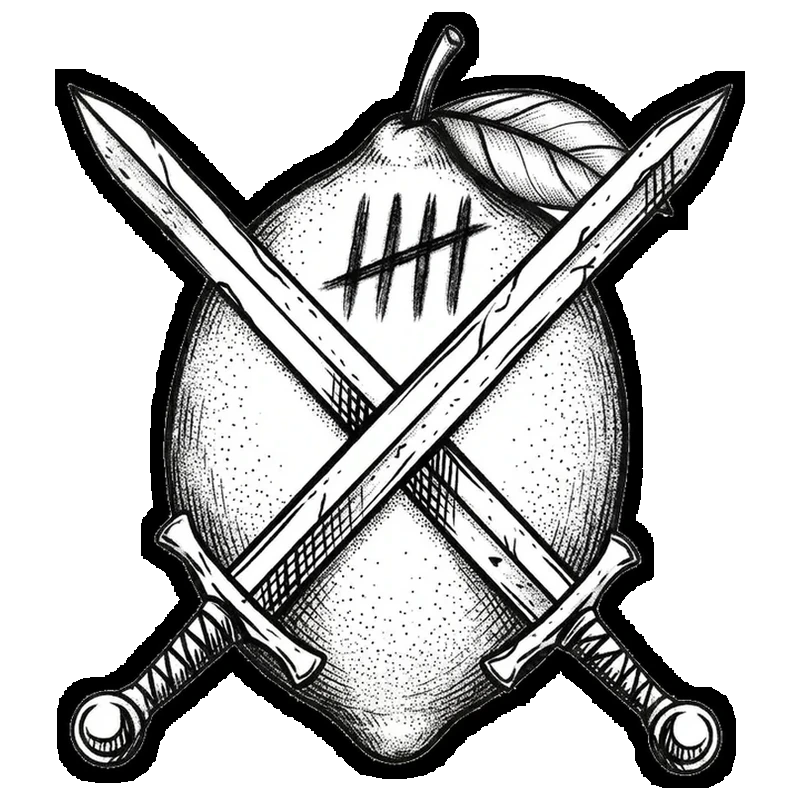
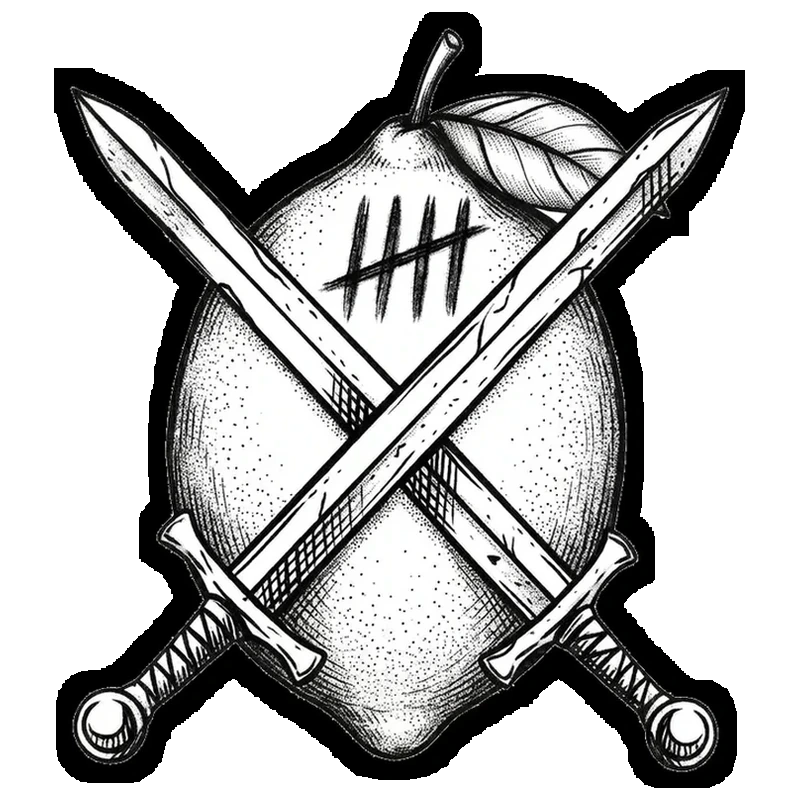
Use user-cleaned squad art; stop despeckling swords (it was eating the crossguard)

Changed region(s): [[0.0625, 0.0312, 0.9375, 1.0], [0.4375, 0.4375, 0.4688, 0.4688]]

diff --git a/frontend/scripts/standardize_tile_icons.py b/frontend/scripts/standardize_tile_icons.py
@@ -128,6 +128,10 @@ SKIP_BORDER_FILES = {"gauntlet-original.webp"}
 # connect to the main artwork -- keep only the single largest opaque
 # connected component per file and drop the rest.
 DESPECKLE_MIN_KEEP_AREA = 800
+# The swords' crossguards and pommels are thin, genuinely disconnected
+# pieces of real content (not dust) that can be well under the despeckle
+# threshold -- despeckling this file silently deletes chunks of the sword.
+SKIP_DESPECKLE_FILES = {"gauntlet-original.webp"}
 
 CANVAS = 800
 TARGET_COVERAGE = 0.55
@@ -307,7 +311,8 @@ def prepare(path: Path) -> Image.Image:
         whiten_flat_gray(img)
     if path.name in WHITE_LEAK_FILES:
         clear_small_enclosed_white_leaks(img)
-    despeckle_keep_largest(img)
+    if path.name not in SKIP_DESPECKLE_FILES:
+        despeckle_keep_largest(img)
     fill_small_enclosed_holes(img)
     return img
 
